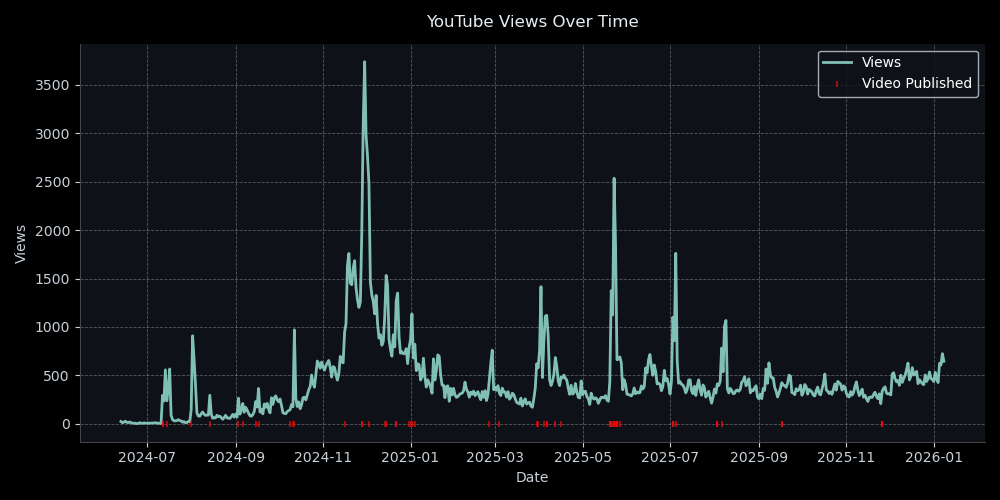
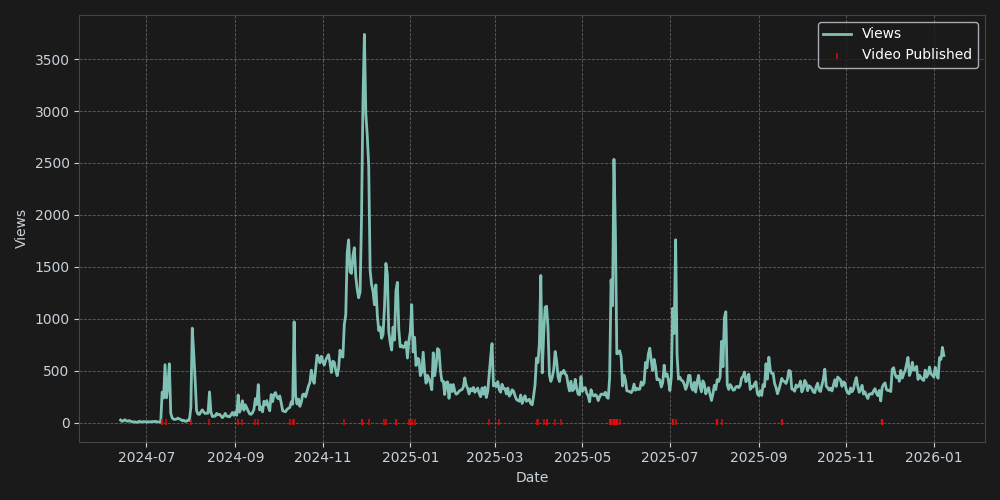
feat: very basic stats overview

diff --git a/src/Components/statsdesc.jsx b/src/Components/statsdesc.jsx
@@ -10,54 +10,69 @@ export default function statsdesc ({ palette }) {
             initial={{ y: -30, opacity: 0 }}
             animate={{ y: 0, opacity: 1 }}
             transition={{ duration: 0.6 }}
+            className="w-full"
         >
-            <div className="flex flex-col items-center gap-[24px] px-[6px] max-sm:pt-[40px] max-sm:pb-[64px] w-full mx-auto">
-                <motion.div
-                    className="font-InriaSerif text-4xl sm:text-5xl text-center mb-8"
+            <div className="flex flex-col items-center gap-6 px-4 sm:px-6 py-8 sm:py-12 w-full">
+                <motion.h1
+                    className="font-InriaSerif text-3xl sm:text-4xl md:text-5xl text-center leading-tight"
                     style={{ color: palette?.aboutmeText }}
                     initial={{ opacity: 0, y: 20 }}
                     animate={{ opacity: 1, y: 0 }}
-                    transition={{ delay: 0.2, duration: 0.6 }}
+                    transition={{ delay: 0.1, duration: 0.6 }}
                 >
-                    Welcome to statistics Page!
-                </motion.div>
+                    Welcome to Statistics Page!
+                </motion.h1>
             </div>
-            <div className="flex flex-col items-center gap-[24px] px-[6px] max-sm:pt-[40px] max-sm:pb-[64px] w-full max-w-6xl mx-auto">
-                <motion.div
-                    className="font-InriaSerif text-xl sm:text-xl text-center mb-8"
-                    style={{ color: palette }}
-                    initial={{ opacity: 0, y: 20 }}
-                    animate={{ opacity: 1, y: 0 }}
-                    transition={{ delay: 0.2, duration: 0.6 }}
-                >
-                    During the period from June 2024 until January 2026 (1.5 years), my music got streamed over <strong>1.3 million</strong> times across all platforms.
-                    Below I present some insights about this journey. I conducted some basic data analysis using python to see the trends and patterns in the data.
-                </motion.div>
-            </div>
-            <div className="flex flex-col items-center gap-[24px] px-[6px] max-sm:pt-[40px] max-sm:pb-[64px] w-full max-w-6xl mx-auto">
-                <motion.div
-                    className="font-InriaSerif text-sm sm:text-xl text-center mb-8"
-                    style={{ color: palette }}
-                    initial={{ opacity: 0, y: 20 }}
-                    animate={{ opacity: 1, y: 0 }}
-                    transition={{ delay: 0.2, duration: 0.6 }}
-                >
-                {/* data repo div */}
-                </motion.div>
-            </div>
-            <div className="flex flex-col items-center gap-[24px] px-[6px] max-sm:pt-[40px] max-sm:pb-[64px] w-full max-w-6xl mx-auto">
-                <motion.div
-                    className="font-InriaSerif text-sm sm:text-xl text-center mb-8"
-                    style={{ color: palette }}
-                    initial={{ opacity: 0, y: 20 }}
-                    animate={{ opacity: 1, y: 0 }}
-                    transition={{ delay: 0.2, duration: 0.6 }}
-                >
-                    Lets take a overall look into Youtube data, since it is the easiest to retrieve data from this platform:
-                </motion.div>
-            </div>
-            
 
+            <div className="flex flex-col items-center gap-6 px-4 sm:px-6 py-6 sm:py-10 w-full">
+                <motion.p
+                    className="font-InriaSerif text-base sm:text-lg md:text-xl text-center max-w-6xl leading-relaxed"
+                    style={{ color: palette?.text }}
+                    initial={{ opacity: 0, y: 20 }}
+                    animate={{ opacity: 1, y: 0 }}
+                    transition={{ delay: 0.2, duration: 0.6 }}
+                >
+                    Since June 2024, my music got streamed over <strong>1.3 million</strong> times across all platforms.
+                    Below I present some insights about this journey. I conducted some basic data analysis using python to see the trends and patterns in the data.
+                </motion.p>
+            </div>
+
+            <div className="flex flex-col items-center gap-6 px-4 sm:px-6 py-6 sm:py-10 w-full">
+                <motion.p
+                    className="font-InriaSerif text-base sm:text-lg md:text-xl text-center max-w-6xl leading-relaxed"
+                    style={{ color: palette?.text }}
+                    initial={{ opacity: 0, y: 20 }}
+                    animate={{ opacity: 1, y: 0 }}
+                    transition={{ delay: 0.2, duration: 0.6 }}
+                >
+                    I gathered some data from major platforms: Youtube, Spotify Apple Music SoundCloud, but I will use only Youtube dataset since it is easier to retrieve data from their studio page.
+
+                </motion.p>
+            </div>
+
+            <div className="flex flex-col items-center gap-6 px-4 sm:px-6 py-6 sm:py-10 w-full">
+                <motion.h2
+                    className="font-InriaSerif text-lg sm:text-xl md:text-2xl text-center leading-tight"
+                    style={{ color: palette?.text }}
+                    initial={{ opacity: 0, y: 20 }}
+                    animate={{ opacity: 1, y: 0 }}
+                    transition={{ delay: 0.3, duration: 0.6 }}
+                >
+                    YouTube Views over time
+                </motion.h2>
+                <motion.div
+                    className="w-full flex justify-center"
+                    initial={{ opacity: 0, scale: 0.95 }}
+                    animate={{ opacity: 1, scale: 1 }}
+                    transition={{ delay: 0.4, duration: 0.6 }}
+                >
+                    <img 
+                        src={plot} 
+                        alt="YouTube views over time" 
+                        className="w-full max-w-4xl h-auto rounded-lg shadow-md"
+                    />
+                </motion.div>
+            </div>
         </motion.section>
     )
 

diff --git a/src/Pages/stats.jsx b/src/Pages/stats.jsx
@@ -23,10 +23,10 @@ export function Stats({ palette, toggleTheme }) {
         onClose={() => setMenuOpen(false)}
         palette={palette}
       />
-      <main className="stats-page min-h-screen pt-[88px] sm:pt-[120px] pb-8">
+      <main className="stats-page min-h-screen pt-[88px] sm:pt-[120px] pb-8 flex flex-col items-center">
         <Breadcrumbs palette={palette} />
 
-        <div className="container mx-auto px-4 sm:px-6 lg:px-8 max-w-6xl">
+        <div className="w-full px-3 sm:px-4 md:px-6 lg:px-8 max-w-6xl mx-auto flex flex-col items-center justify-center">
           <Statsdesc palette={palette} />
         </div>
       </main>
